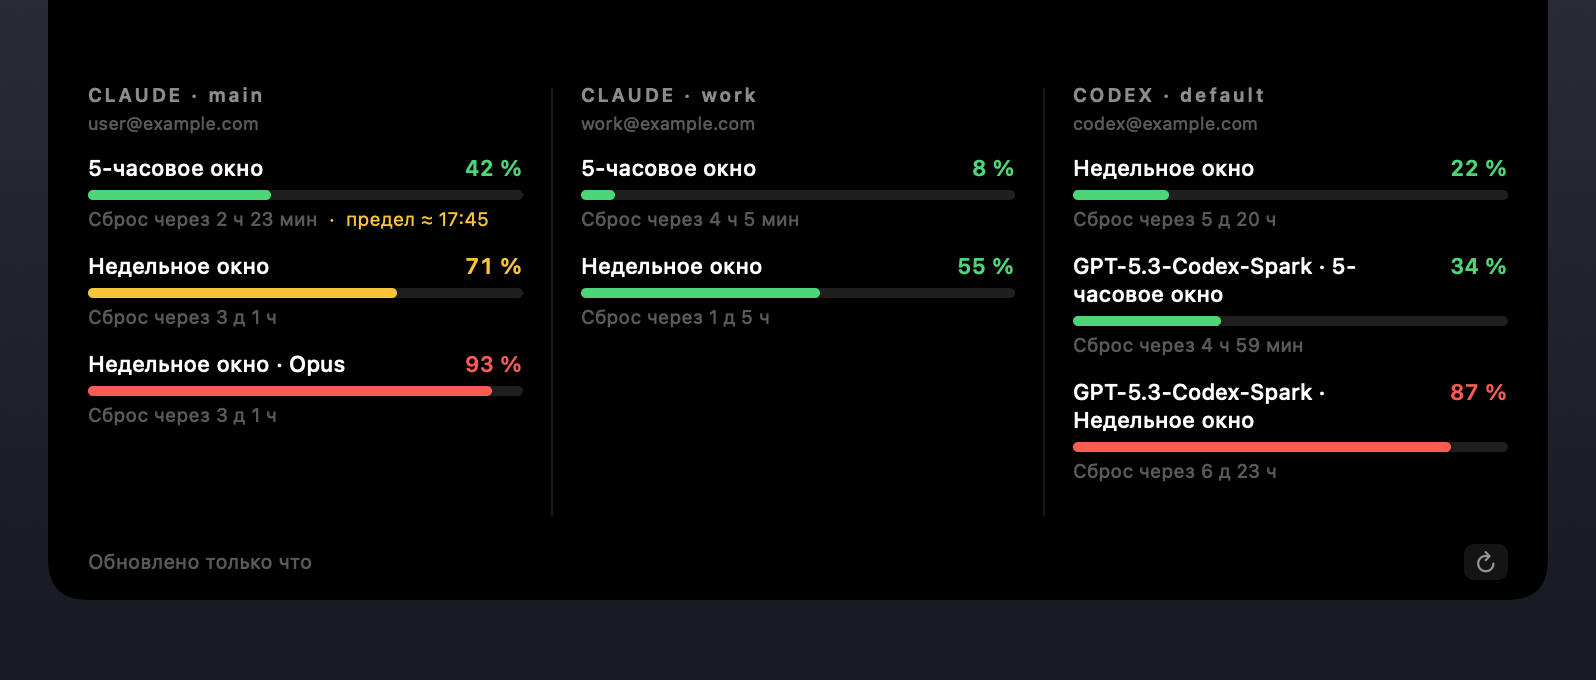
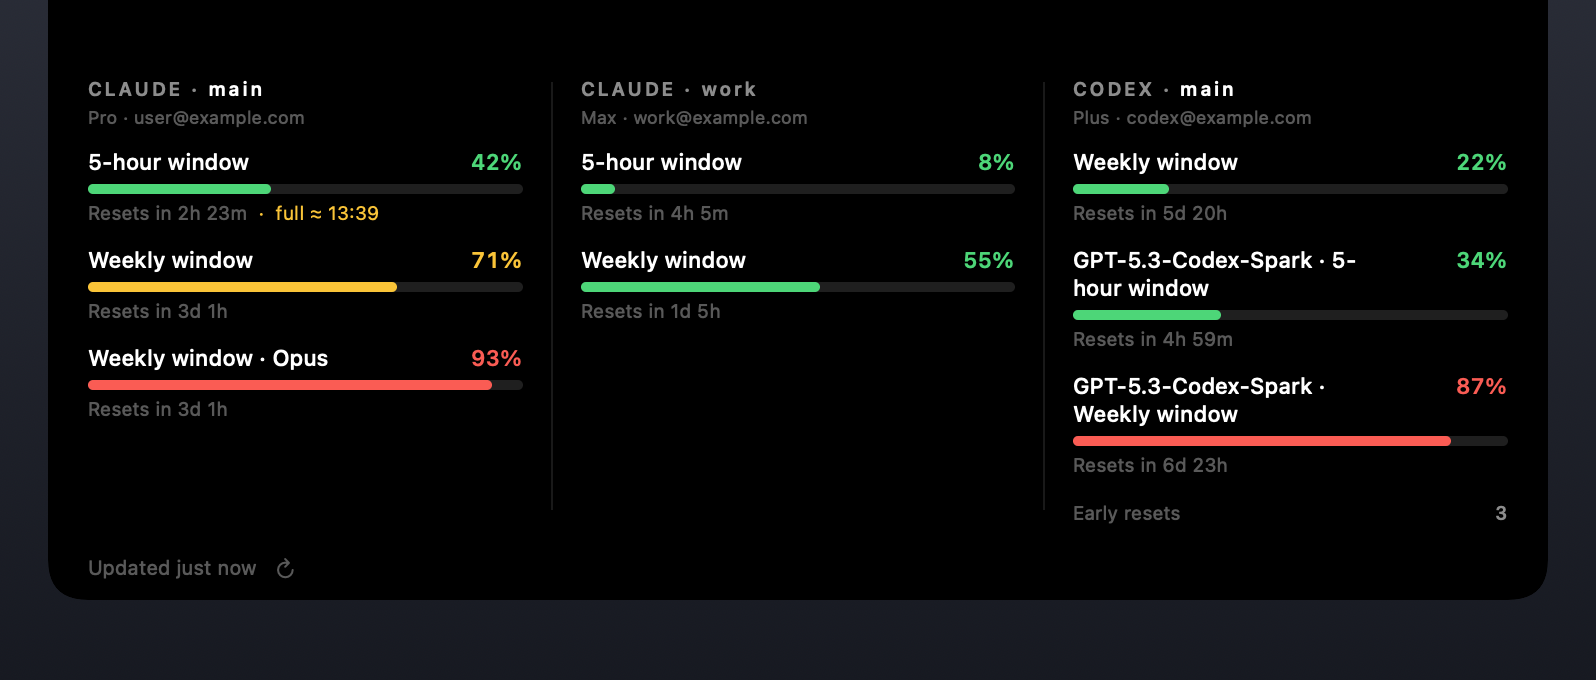
docs(readme): re-render screenshots in English with the current panel
The render mock now shows the plan in the subtitle, the active-account
highlight and Codex "Early resets"; the Codex main column is named
"main" like in the app. The states scene gets extra height so the footer
isn't clipped. Screenshots are rendered with -AppleLanguages '(en)'.

diff --git a/Sources/NotchLimits/App/DebugRender.swift b/Sources/NotchLimits/App/DebugRender.swift
@@ -15,7 +15,7 @@ enum DebugRender {
         try? FileManager.default.createDirectory(at: root, withIntermediateDirectories: true)
 
         renderPanel(to: root.appendingPathComponent("panel.png"), columns: healthyColumns())
-        renderPanel(to: root.appendingPathComponent("states.png"), columns: mixedColumns())
+        renderPanel(to: root.appendingPathComponent("states.png"), columns: mixedColumns(), extraHeight: 40)
         renderCollapsed(to: root.appendingPathComponent("collapsed.png"))
 
         exit(0)
@@ -24,7 +24,7 @@ enum DebugRender {
     // MARK: - Сцены
 
     @MainActor
-    private static func renderPanel(to url: URL, columns: [AccountColumn]) {
+    private static func renderPanel(to url: URL, columns: [AccountColumn], extraHeight: CGFloat = 16) {
         let store = UsageStore(providers: [:], discovery: MockDiscovery())
         store.setColumnsForRendering(columns)
 
@@ -33,8 +33,8 @@ enum DebugRender {
         state.expanded = true
         state.expandedSize = state.geometry.expandedSize(columnCount: columns.count)
         // ImageRenderer не гоняет цикл предпочтений, поэтому высоту под
-        // перенесённые названия закладываем здесь вручную.
-        state.expandedSize.height += 16
+        // перенесённые названия (и строки под окнами) закладываем здесь вручную.
+        state.expandedSize.height += extraHeight
 
         let panelSize = state.expandedSize
         let scene = ZStack(alignment: .top) {
@@ -101,7 +101,8 @@ enum DebugRender {
 
     private static func healthyColumns() -> [AccountColumn] {
         var main = AccountColumn(id: "claude:main", provider: .claude, profileName: "main")
-        main.subtitle = "user@example.com"
+        main.subtitle = "Pro · user@example.com"
+        main.isActive = true      // открыт в приложении Claude — имя подсвечено
         main.updatedAt = Date()
         main.status = .ok
         main.windows = [
@@ -115,7 +116,7 @@ enum DebugRender {
         ]
 
         var work = AccountColumn(id: "claude:work", provider: .claude, profileName: "work")
-        work.subtitle = "work@example.com"
+        work.subtitle = "Max · work@example.com"
         work.updatedAt = Date()
         work.status = .ok
         work.windows = [
@@ -125,8 +126,10 @@ enum DebugRender {
                         resetsAt: Date().addingTimeInterval(30 * hour))
         ]
 
-        var codex = AccountColumn(id: "codex:default", provider: .codex, profileName: "default")
-        codex.subtitle = "codex@example.com"
+        var codex = AccountColumn(id: "codex:default", provider: .codex,
+                                  profileName: ProfileDirectories.primaryName)
+        codex.subtitle = "Plus · codex@example.com"
+        codex.isActive = true
         codex.updatedAt = Date()
         codex.status = .ok
         codex.windows = [
@@ -137,6 +140,7 @@ enum DebugRender {
             LimitWindow(key: "spark.secondary", title: "GPT-5.3-Codex-Spark · " + L.t("window.week"),
                         utilization: 87, resetsAt: Date().addingTimeInterval(168 * hour))
         ]
+        codex.stats = [UsageStat(key: "resetCredits", label: L.t("stat.resetCredits"), value: "3")]
 
         return [main, work, codex]
     }
